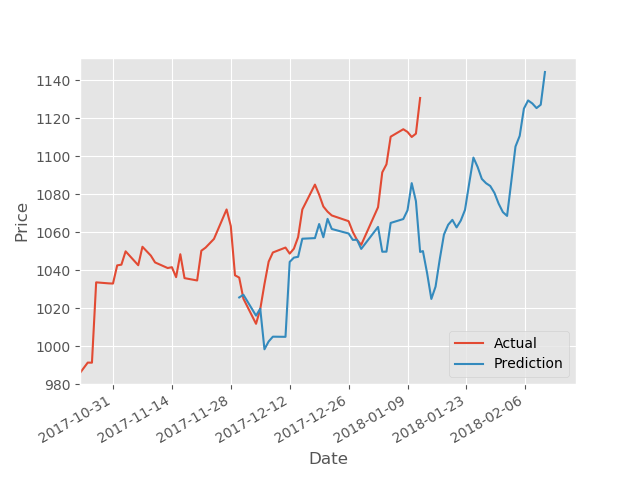
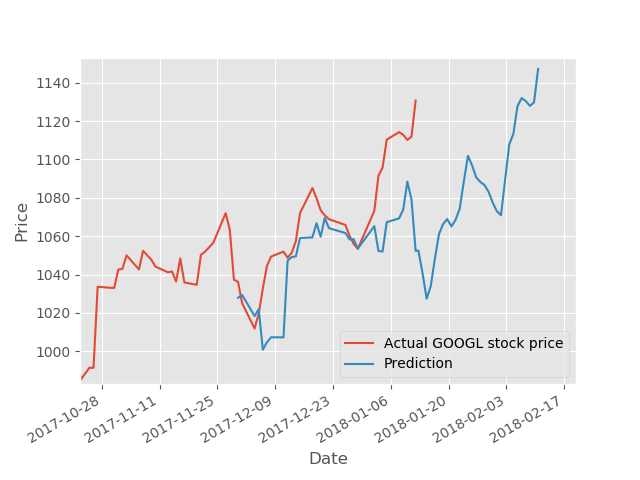
Simplified datetime manipulations

diff --git a/main.py b/main.py
@@ -1,7 +1,6 @@
 import pandas as pd
 import numpy as np
 import math, datetime, time
-from datetime import datetime
 from sklearn import preprocessing, cross_validation, svm
 from sklearn.linear_model import LinearRegression
 import matplotlib.pyplot as plt
@@ -53,18 +52,16 @@ X_pred30 = X[-forecast_out:]
 y_pred_forecast = clf.predict(X_pred30)
 
 last_date = df.iloc[-1].name
-last_unix = last_date.timestamp()
-one_day = 86400
-next_unix = last_unix + one_day
+dt = datetime.datetime.fromtimestamp(last_date.timestamp())
 
 for i in y_pred_forecast:
-    next_date = datetime.fromtimestamp(next_unix)
-    next_unix += one_day
-    df.loc[next_date] = [np.nan for _ in range(len(df.columns) - 1)] + [i]
+    dt += datetime.timedelta(days=1)
+    df.loc[dt] = [np.nan for _ in range(len(df.columns) - 1)] + [i]
 
-a = df[forecast_col].plot()
-p = df['Prediction'].plot()
+df[forecast_col].plot()
+df['Prediction'].plot()
+
 plt.xlabel('Date')
 plt.ylabel('Price')
-plt.legend(['Actual', 'Prediction'], loc=4)
+plt.legend(['Actual GOOGL stock price', 'Prediction'], loc=4)
 plt.show()

diff --git a/README.md b/README.md
@@ -12,5 +12,12 @@ python download_dataset.py
 
 # Lesson 5
 
+Modifications:
+
+- We changed the we train on all the rows except last 60
+- we use the next 30 rows to make predictions of the last 30 rows' stock prices to be able to visually compare
+- we use the last 30 rows to make predictions 30 days into the future
+- changes to simplify the datetime manipulations
 ![](https://raw.github.com/benji/sentdex-regression-forecasting-and-predicting/master/images/lesson5_predictions.png)
+
 The red line show actual stock data, the blue line shows the prediction of the model that carries out 30 days into the future (at the time).
